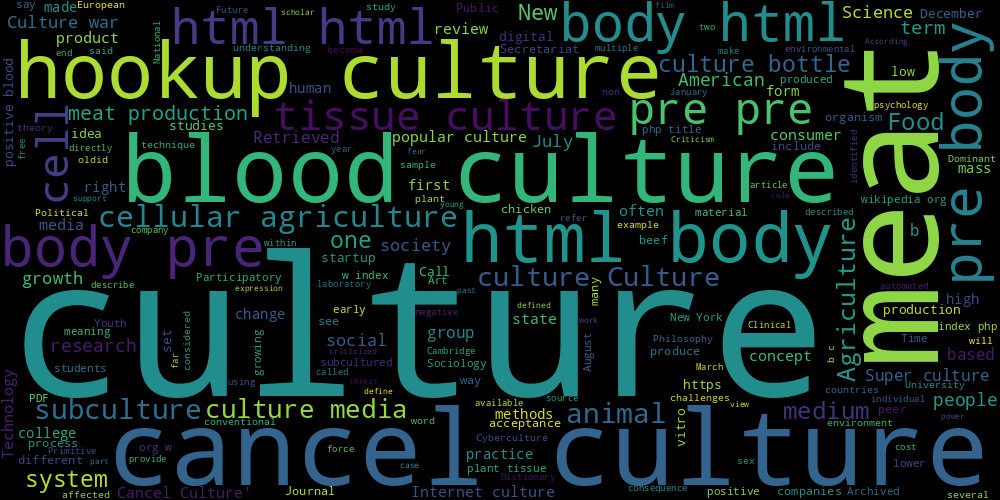
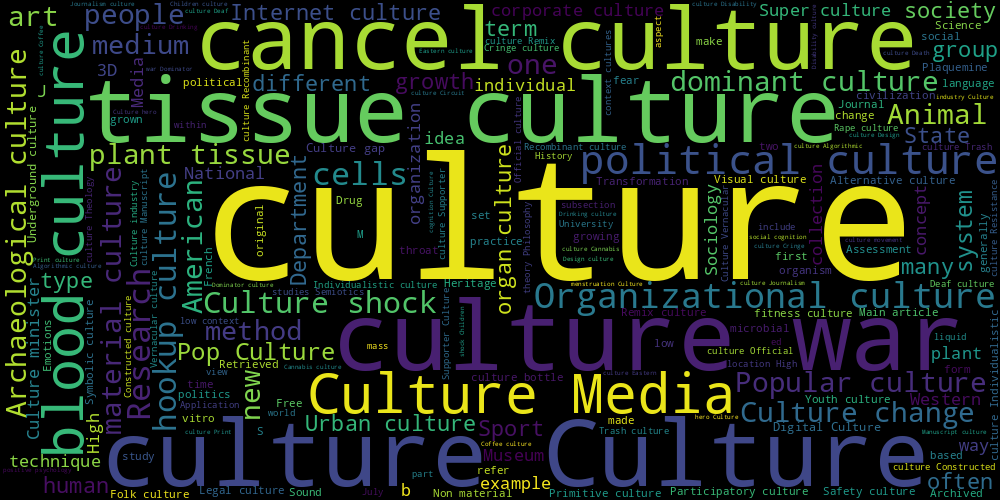
amélioration stopwords et génération de nuages eng et fr

diff --git a/nuages/nuage.py b/nuages/nuage.py
@@ -40,10 +40,10 @@ if texte.strip() == "":
 stopwords = set(STOPWORDS)
 stopwords.update([
     # Français
-    "le","il", "entre", "leur","cette","ce","chaque","comment","ou","se","peut","elle","dans","aux","comme","culturelles","culturelle","ainsi","ls","ainsi","qu","par","sa","son","d","par","autre","culturels","qui","que","pour","plus","sur","l","culturel","culturelle", "la", "les", "de", "des", "en","définition","ne","sont","Paris","Frane","l'Agriculture", "du", "et", "est", "à","avec","lle","être", "un", "une",
-    "permet","chez","fait","donc","bien",
+    "le","il", "entre", "leur","cette","ce","chaque","comment","ou","se","peut","elle","dans","aux","comme","culturelles","culturelle","ainsi","ls","ainsi","qu","par","sa","son","d","pas","autre","culturels","qui","que","pour","plus","sur","l","culturel","culturelle", "la", "les", "de", "des", "en","définition","ne","sont","Paris","France", "du", "et", "est", "à","avec","lle","être", "un", "une",
+    "permet","chez","fait","donc","bien","biens","aujourd'hui","n","au","même","française","désigne","selon","nos","tous","sou","exemple","si",
     # Anglais
-    "or", "with", "use", "used", "men", "the", "a", "an", "in", "of","may","cultured","cultural","for"
+    "or", "with", "use", "used", "men", "the", "a", "an", "in", "of","may","cultured","cultural","for","cell",
     # Espagnol
     "del", "que", "o", "y", "el", "la", "de", "en","las","para","e","lo","como","una","uno","es","los","por","su","culturales"
 ])
